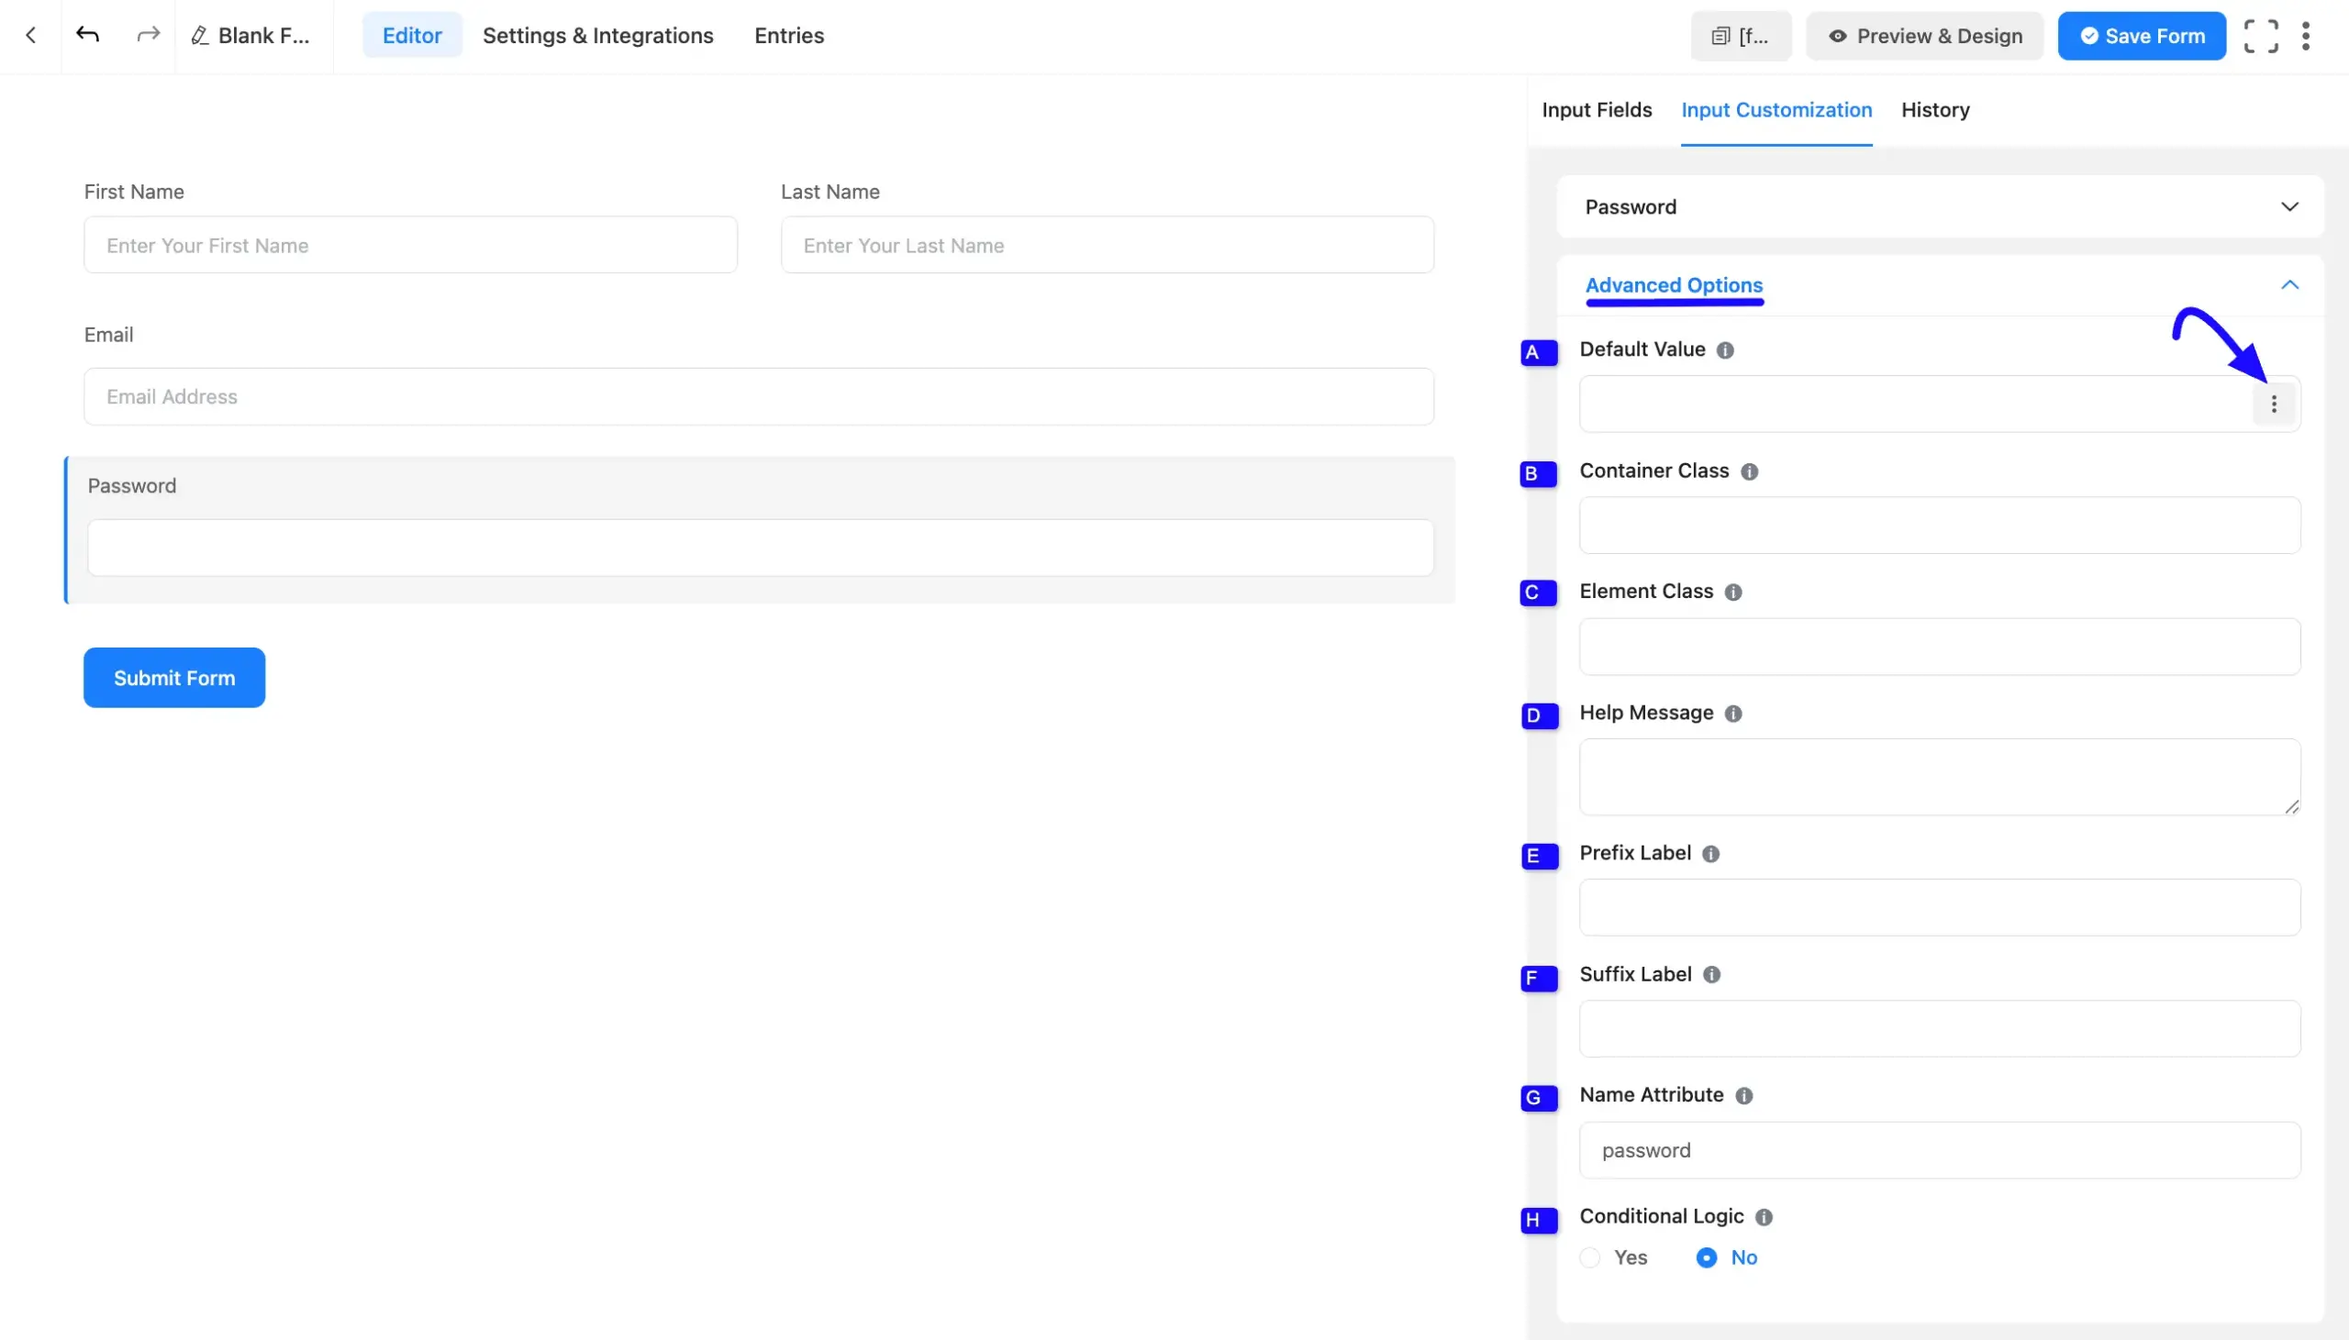
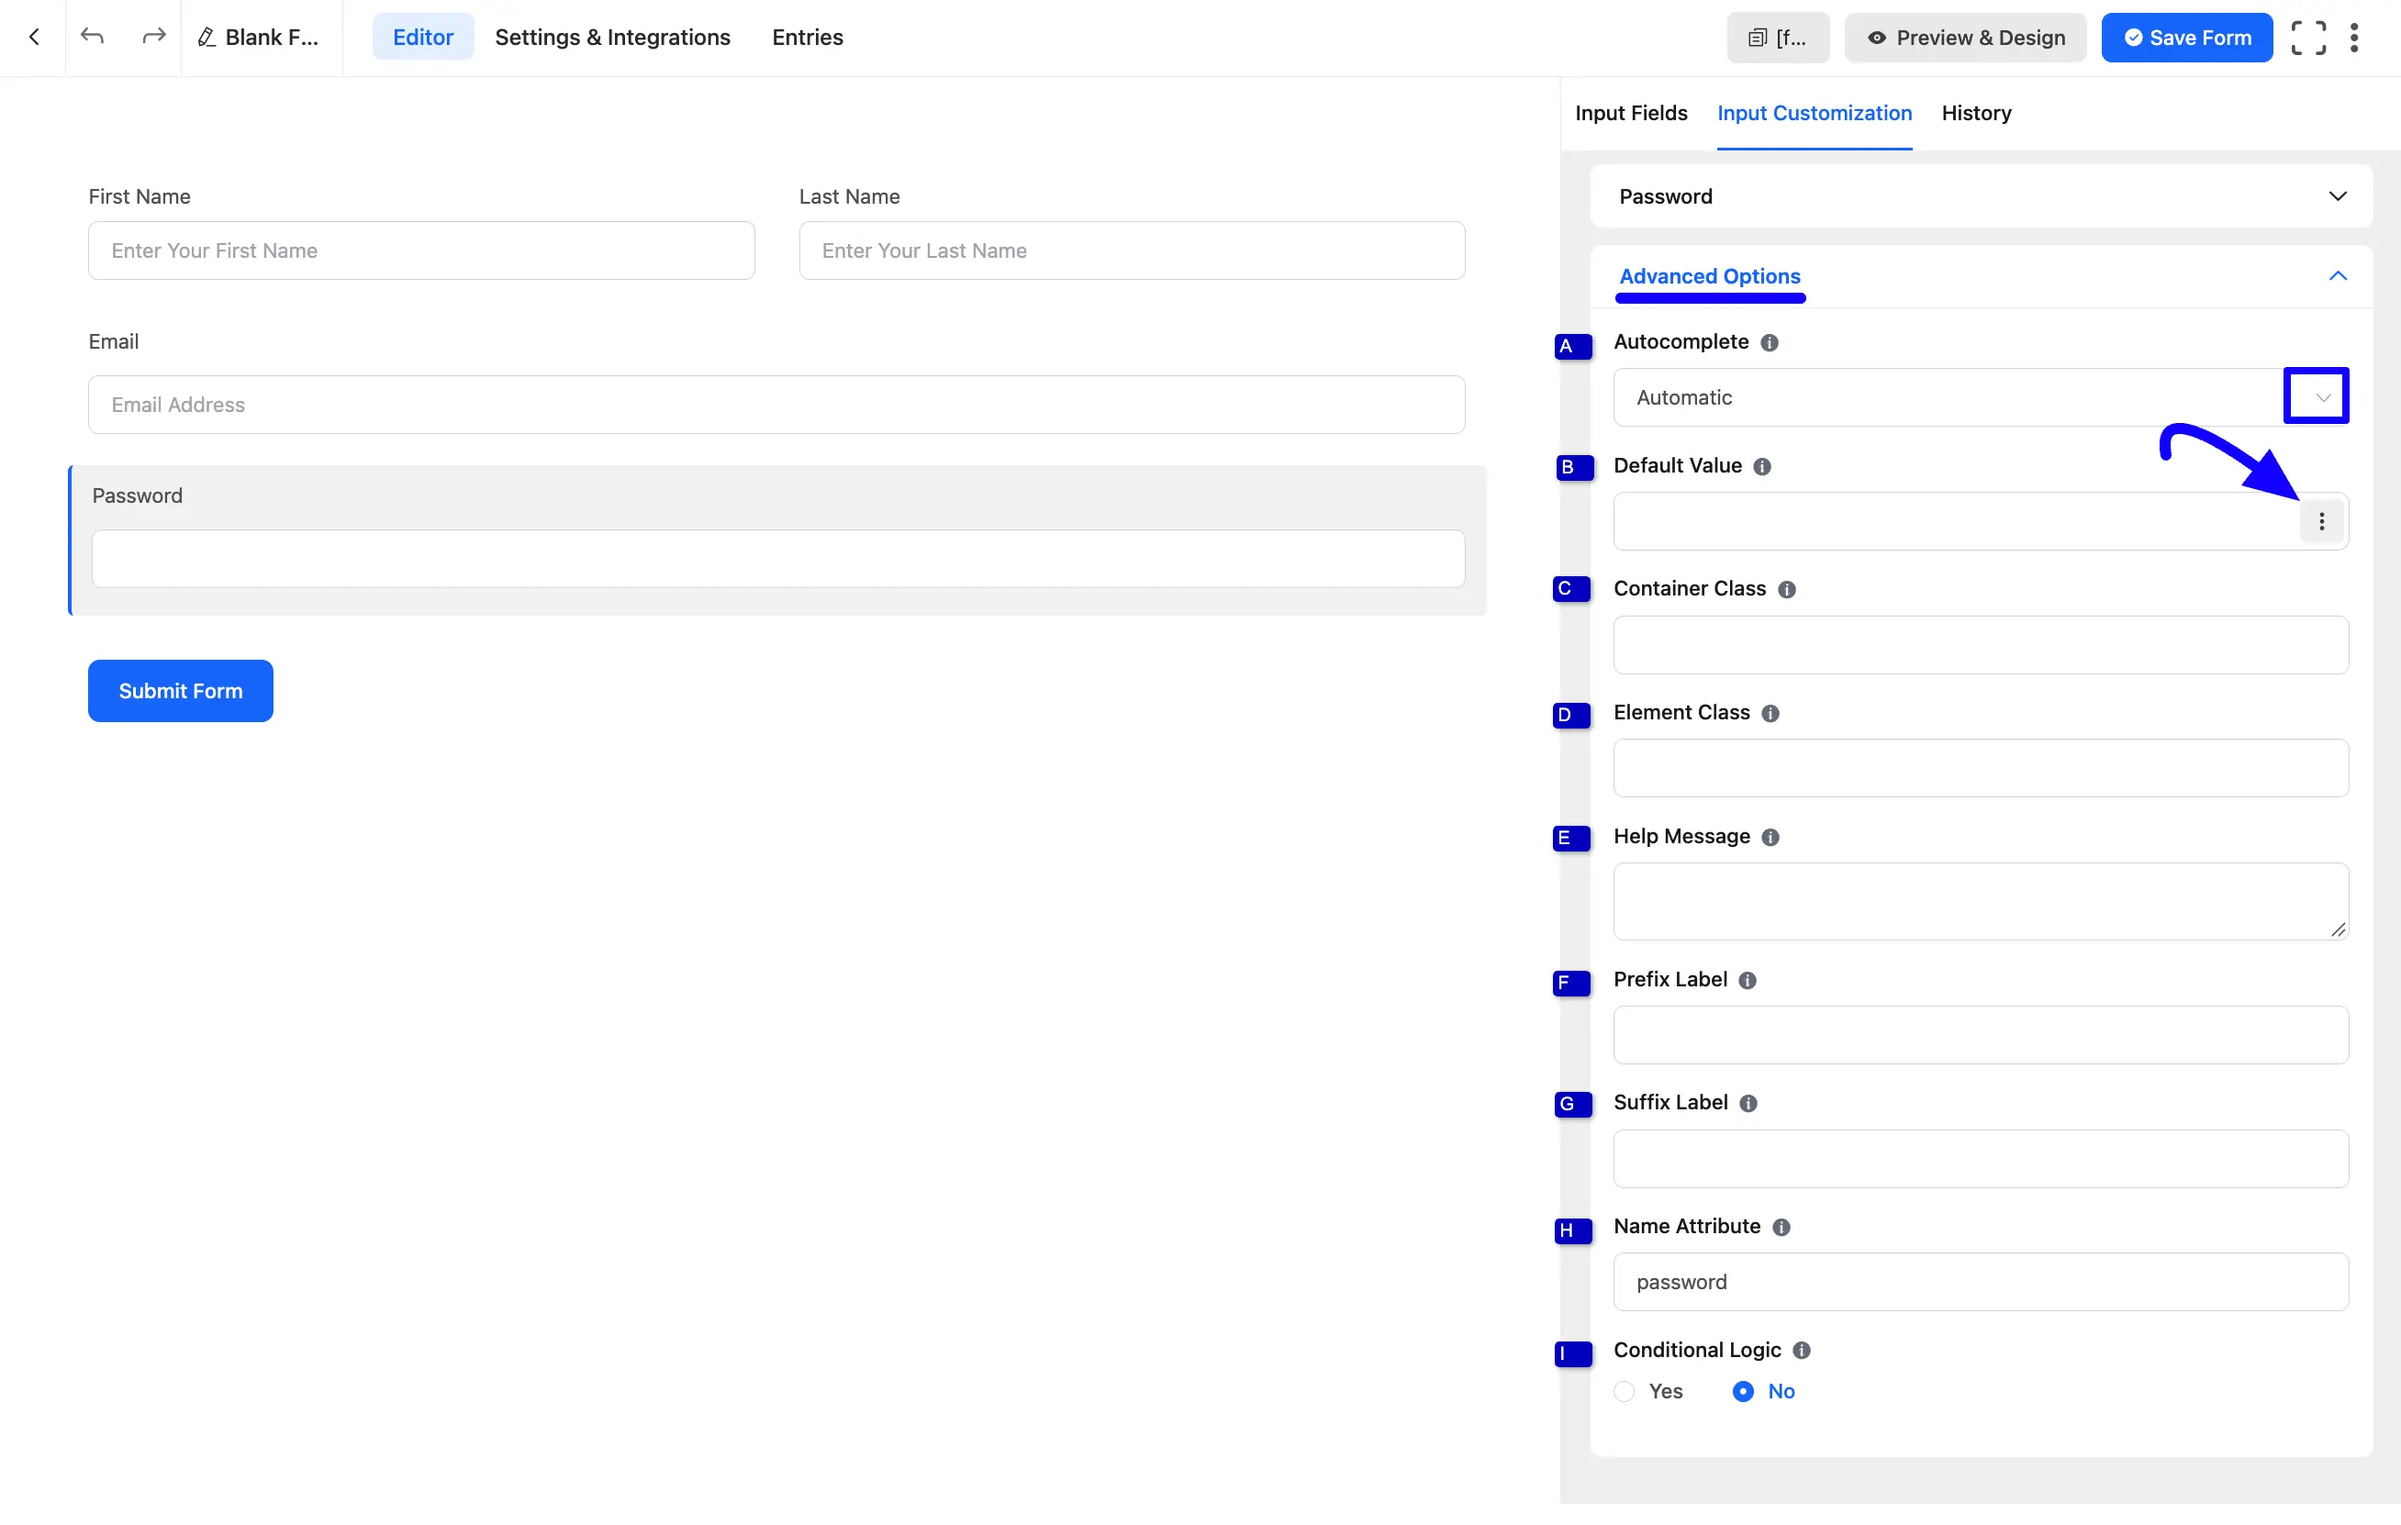
update name-input-field doc and image update

diff --git a/docs/form-fields/general-fields/name-input-field.md b/docs/form-fields/general-fields/name-input-field.md
@@ -66,6 +66,8 @@ Advanced settings allow further customization to meet specific use cases.
 
 **C. Conditional Logic:** This option allows you to create specific rules to dynamically hide/show the input field to function conditionally based on your submission values according to your set of conditional logic/s. To learn more, read [Set up Forms with Conditional Logic in Fluent Forms](/set-up-forms-with-conditional-logic). 
 
+**D. Autocomplete:** Choose how browsers autofill the whole Name field. The options are **Automatic**, **off**, and **None**. **Automatic** gives each input its matching value, such as first name and last name. **off** turns off autofill for the field. **None** adds no attribute. To learn more, read [Autocomplete for Form Fields](/autocomplete-for-form-fields).
+
 ![Advanced Options](/images/form-fields/general-fields/name-input-field/Advanced-Options-05-scaled.webp)
 
 ## Embed the Form into the Front
